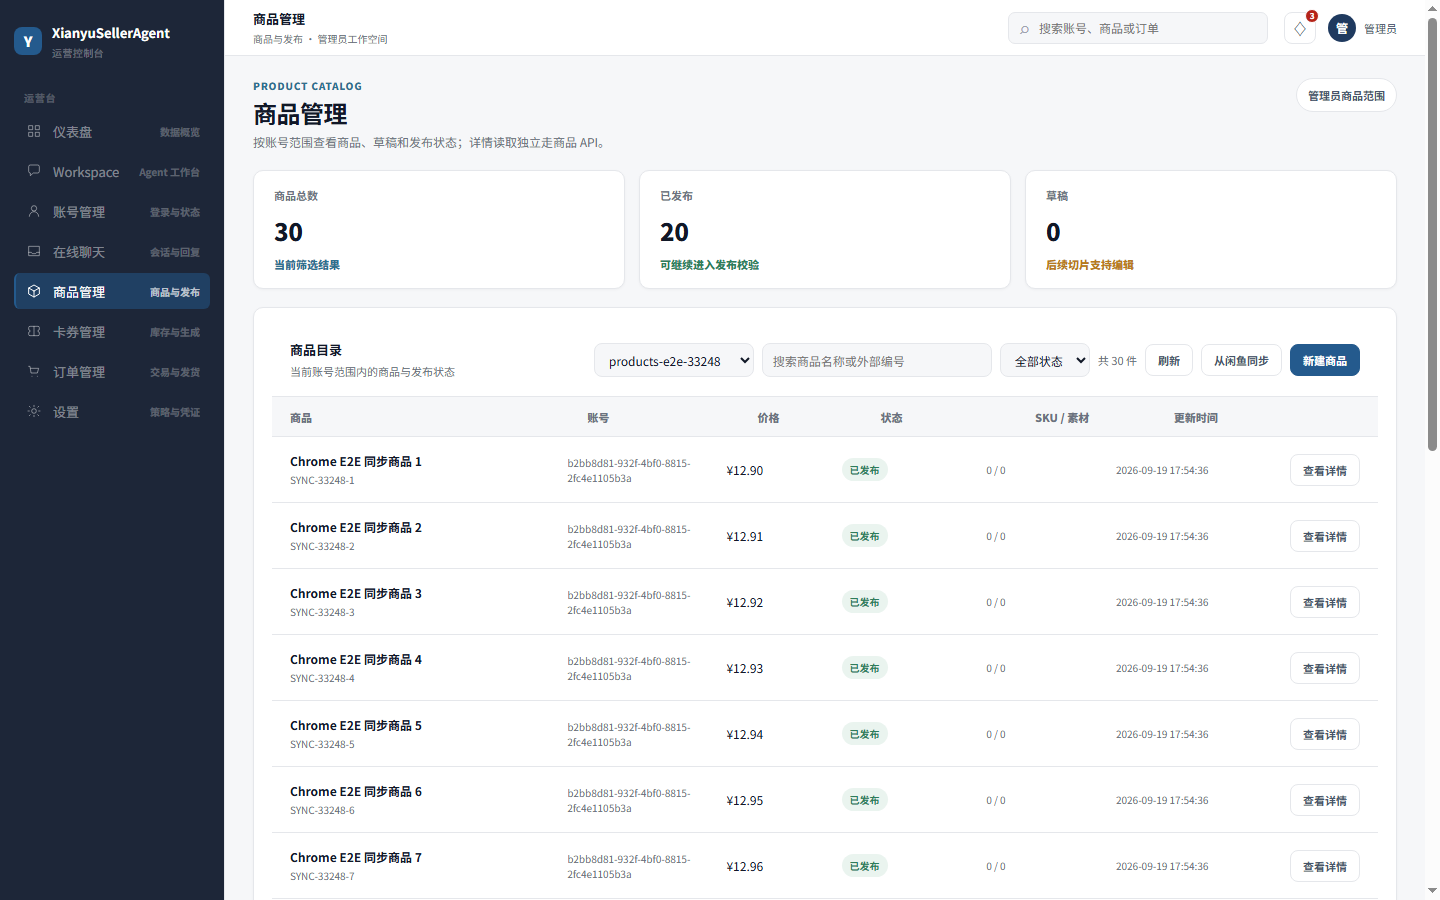
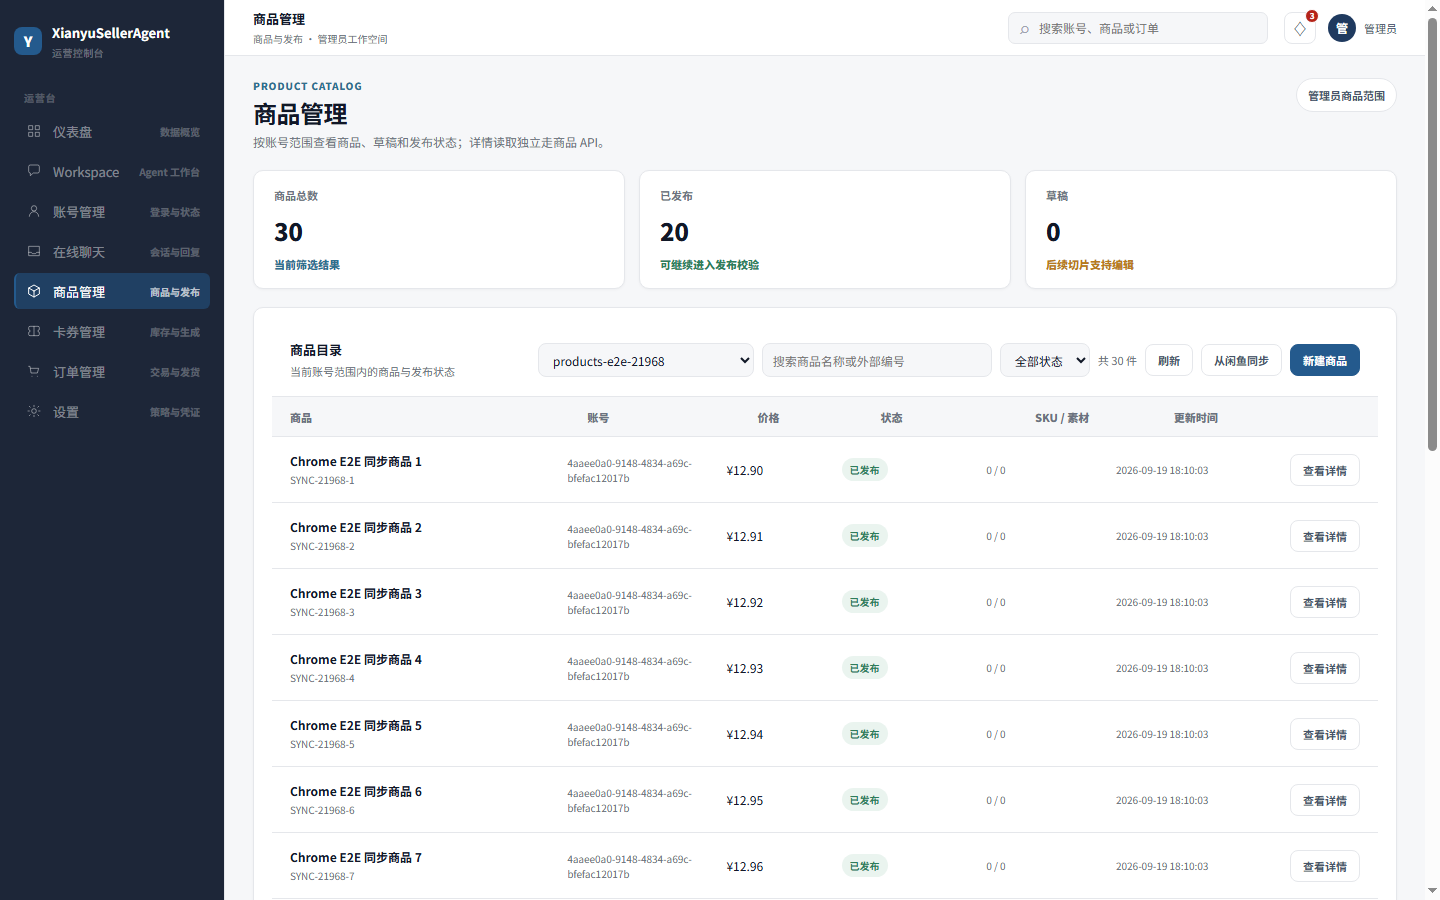
fix(商品同步): 修复多账号选择与Postgres幂等

diff --git a/apps/web/src/features/products/components/ProductsPage.tsx b/apps/web/src/features/products/components/ProductsPage.tsx
@@ -82,7 +82,7 @@ export function ProductsPage({ api: providedApi, accountsApi: providedAccountsAp
         <ProductToolbar filters={controller.filters} phase={controller.state.phase} total={total} syncing={controller.mutation.phase === 'saving'} accounts={accounts} accountsLoading={accountsLoading} accountsError={accountsError} selectedAccountId={selectedAccountId} onAccountChange={handleAccountChange} onKeywordChange={controller.setKeyword} onStatusChange={(status) => controller.setFilters((previous) => ({ ...previous, status, page: 1 }))} onRefresh={controller.reload} onSync={() => { if (selectedAccountId) void controller.syncFromXianyu(selectedAccountId); }} onCreate={() => { controller.clearMutation(); setDrawer({ mode: 'create' }); }} />
         {controller.mutation.error && <div className="products-inline-error" role="alert">{controller.mutation.error.message}</div>}
         {controller.state.phase === 'success' && <ProductTable products={products} onOpen={controller.openProduct} />}
-        <ProductListStateView phase={controller.state.phase} error={controller.state.error} onRetry={controller.reload} />
+        <ProductListStateView phase={controller.state.phase} error={controller.state.error} onRetry={controller.reload} accountSelectionRequired={!accountsLoading && !accountsError && accounts.length > 1 && !selectedAccountId} />
       </article>
       <ProductDetailPanel state={controller.detail} onClose={controller.closeProduct} onRetry={() => controller.detail.productId && controller.openProduct(controller.detail.productId)} onEdit={(product) => { controller.closeProduct(); controller.clearMutation(); setDrawer({ mode: 'edit', product }); }} />
       {drawer && <ProductDrawer mode={drawer.mode} accountId={selectedAccountId} product={drawer.product} error={controller.mutation.error} saving={controller.mutation.phase === 'saving'} onClose={() => setDrawer(null)} onCreate={async (values) => Boolean(await controller.createDraft(values))} onUpdate={async (productId, patch, configVersion) => Boolean(await controller.updateDraft(productId, patch, configVersion))} />}

diff --git a/apps/api/src/store-postgres.ts b/apps/api/src/store-postgres.ts
@@ -101,7 +101,7 @@ export class PostgresStore implements Store {
     const id = existing ? String(existing.id) : createId();
     await this.pool.query(`insert into products.products (id,account_id,external_product_ref,title,description,category_code,attributes_json,price_minor,status,source,last_synced_at,source_payload_digest)
       values ($1,$2,$3,$4,$5,$6,$7::jsonb,$8,'published','xianyu',$9,$10)
-      on conflict (account_id,external_product_ref) do update set title=excluded.title,description=excluded.description,category_code=excluded.category_code,attributes_json=excluded.attributes_json,price_minor=excluded.price_minor,status='published',source='xianyu',last_synced_at=excluded.last_synced_at,source_payload_digest=excluded.source_payload_digest,config_version=products.products.config_version+1,updated_at=now()
+      on conflict (account_id,external_product_ref) where external_product_ref is not null do update set title=excluded.title,description=excluded.description,category_code=excluded.category_code,attributes_json=excluded.attributes_json,price_minor=excluded.price_minor,status='published',source='xianyu',last_synced_at=excluded.last_synced_at,source_payload_digest=excluded.source_payload_digest,config_version=products.products.config_version+1,updated_at=now()
       returning id`, [id, input.accountId, input.item.externalProductRef, input.item.title, input.item.description ?? null, input.item.categoryCode ?? null, JSON.stringify(attributes), input.item.priceMinor ?? null, input.syncedAt, input.item.sourcePayloadDigest]);
     const product = await this.getProduct(input.adminId, id);
     if (!product) throw new Error('PRODUCT_SYNC_READBACK_FAILED');

diff --git a/apps/web/src/features/products/components/ProductStateView.tsx b/apps/web/src/features/products/components/ProductStateView.tsx
@@ -1,7 +1,8 @@
 import type { ProductDetailState, ProductsLoadError, ProductsLoadPhase } from '../types';
 
-export function ProductListStateView({ phase, error, onRetry }: { phase: ProductsLoadPhase; error: ProductsLoadError | null; onRetry: () => void }) {
+export function ProductListStateView({ phase, error, onRetry, accountSelectionRequired = false }: { phase: ProductsLoadPhase; error: ProductsLoadError | null; onRetry: () => void; accountSelectionRequired?: boolean }) {
   if (phase === 'idle' || phase === 'loading') return <div className="products-state" aria-live="polite"><div className="products-skeleton"/><div className="products-skeleton"/><div className="products-skeleton"/></div>;
+  if (accountSelectionRequired) return <div className="products-state"><strong>请选择闲鱼账号</strong><span>当前有多个可用账号，请先选择账号后再加载商品或执行同步。</span></div>;
   if (phase === 'empty') return <div className="products-state"><strong>暂无商品</strong><span>当前账号范围内没有匹配商品，可调整筛选条件后重试。</span></div>;
   if (phase === 'forbidden') return <div className="products-state products-error" role="alert"><strong>无权查看商品</strong><span>{error?.message}</span></div>;
   if (phase === 'error' && error) return <div className="products-state products-error" role="alert"><strong>商品列表加载失败</strong><span>{error.message}</span>{error.retryable && <button className="btn ghost" type="button" onClick={onRetry}>重新加载</button>}</div>;

diff --git a/apps/web/src/features/products/account-scope.test.ts b/apps/web/src/features/products/account-scope.test.ts
@@ -11,12 +11,17 @@ describe('product account scope selection', () => {
     expect(chooseProductAccountId([account('pending', 'pending'), account('connected', 'connected', 'online')], 'pending')).toBe('pending');
   });
 
-  it('prefers a connected account when no request exists', () => {
-    expect(chooseProductAccountId([account('pending', 'pending'), account('connected', 'connected', 'online')])).toBe('connected');
+  it('auto-selects the only available account when no request exists', () => {
+    expect(chooseProductAccountId([account('connected', 'connected', 'online')])).toBe('connected');
+  });
+
+  it('requires explicit selection when multiple accounts are available', () => {
+    expect(chooseProductAccountId([account('first', 'connected', 'online'), account('second', 'connected', 'online')])).toBeUndefined();
   });
 
   it('does not select disabled accounts', () => {
     expect(chooseProductAccountId([account('disabled', 'disabled'), account('pending', 'pending')])).toBe('pending');
+    expect(chooseProductAccountId([account('disabled', 'disabled'), account('pending', 'pending'), account('connected', 'connected', 'online')])).toBeUndefined();
     expect(chooseProductAccountId([account('disabled', 'disabled')])).toBeUndefined();
   });
 });

diff --git a/apps/web/src/features/products/account-scope.ts b/apps/web/src/features/products/account-scope.ts
@@ -3,6 +3,7 @@ import type { AccountVM } from '../accounts/types';
 export function chooseProductAccountId(accounts: AccountVM[], requestedAccountId?: string): string | undefined {
   const available = accounts.filter((account) => account.status !== 'disabled');
   if (requestedAccountId && available.some((account) => account.id === requestedAccountId)) return requestedAccountId;
+  if (available.length !== 1) return undefined;
   return available.find((account) => account.status === 'connected' || account.connection.status === 'online')?.id
     ?? available[0]?.id;
 }

diff --git a/docs/05-review-log.md b/docs/05-review-log.md
@@ -211,6 +211,16 @@
 
 本轮门禁结论：S4-VS2 商品列表/详情只读首片 PASS，可继续同一商品切片的草稿、素材、SKU 和发布子切片；不能将当前结果表述为完整商品管理或真实闲鱼商品同步/发布完成。
 
+### 10.11 S4-VS2 商品同步 Compose 回归复核（2026-09-19）
+
+| 评审编号 | 类型 | 评审重点 | 评审人 | 结论 | 证据 |
+| --- | --- | --- | --- | --- | --- |
+| S5-R28 | 后端 / PostgreSQL | 外部商品 Upsert 是否正确命中 `products_account_external_ref_uq` 部分唯一索引，避免真实同步返回 500 | root | PASS | `apps/api/src/store-postgres.ts` 在 `ON CONFLICT` 中补充 `WHERE external_product_ref IS NOT NULL`；`npm run test:products:postgres` 通过；真实 Compose 同步接口返回 200 |
+| S5-R29 | 前端 / 账号上下文 | 多个可用闲鱼账号时是否避免静默选中错误账号，要求显式选择后再加载/同步 | root + inspect_sync_backend_bug | PASS（受控 E2E） | `apps/web/src/features/products/account-scope.ts`、`ProductStateView.tsx`；`npm run test:web`、`npm run test:e2e:chrome:products` 通过 |
+| S5-R30 | 外部平台 / 商品数量口径 | 当前 Compose 凭证是否实际返回用户所说的 29 件商品 | root + inspect_sync_backend_bug | PENDING 人工复核 | 当前两个 connected 账号 MTOP 实测分别返回 0 和 19 件；`nextPage=false`，在售分组为 19；未发现可安全推导 29 件的分组/分页参数，不能用 fixture 结果替代外部验收 |
+
+本轮结论：已关闭 PostgreSQL 同步 500 与多账号误选账号两个代码问题；真实闲鱼“29 件”数量口径仍需确认目标账号及是否包含非在售分组，当前同步继续保持只读在售范围，不伪造或扩大外部数量。
+
 ### 10.4 本地 dev / Compose 数据源统一复核（2026-09-19）
 
 | 评审编号 | 类型 | 评审重点 | 评审人 | 结论 | 证据 |

diff --git a/AGENT.md b/AGENT.md
@@ -175,3 +175,9 @@ git diff --check
 - 全 Compose 模式使用 `full` profile；本地 dev 启动前停止 Compose API/Worker，禁止两个 API 同时抢占 `8080`。
 - 首次管理员页面必须由真实 `bootstrapRequired` 数据驱动；已有管理员时只显示登录页，不在前端硬编码邮箱或密码。
 - 健康检查必须暴露实际 storage kind，便于确认浏览器请求没有误连到另一套内存 API。
+
+## 2026-09-19 商品同步真实环境经验
+
+- PostgreSQL 部分唯一索引用于外部商品幂等 Upsert 时，`ON CONFLICT` 必须带与索引一致的谓词；仅写 `(account_id, external_product_ref)` 会在真实数据库返回“没有匹配唯一约束”的 500，内存测试无法发现该问题。
+- 多闲鱼账号的商品页不得静默选择第一个 connected 账号；没有明确 `accountId` 时必须要求管理员显式选择，避免把空账号或错误账号的结果误报为“当前账号没有商品”。
+- Chrome/CDP fixture 中的“29 件”只能证明前端链路可承载 29 件数据，不能替代真实 MTOP 外部验收；真实商品数量必须按目标账号、分组、分页和当前 Cookie 的实际返回记录，数量口径不一致时提出人工复核，不得硬编码补齐。

diff --git a/STATUS.md b/STATUS.md
@@ -84,3 +84,4 @@
 - 2026-09-19 S4-VS2 商品列表/详情只读首片完成：003_catalog、统一商品 API、前端 Products feature、PostgreSQL smoke 和 Chrome/CDP E2E 均通过；商品写入、同步、素材、SKU、发布仍未宣称完成。
 - 2026-09-19 S4-VS2 商品同步首片完成：`POST /api/v1/products/sync`、MTOP 脱敏 mapper、Memory/PostgreSQL 幂等 Upsert、本地草稿跳过、商品页同步按钮和 Chrome/CDP fixture E2E 均通过；提交 `edecc3e`。真实发布仍未接入。
 - 2026-09-19 S4-VS2 商品同步入口修复完成：普通 `/products` 自动选择可用账号并携带 `accountId` 查询/同步，Chrome/CDP fixture 验证 29 件同步商品可见；本轮已单独提交。真实闲鱼外部验收仍待人工执行。
+- 2026-09-19 S4-VS2 商品同步 Compose 回归修复：PostgreSQL 外部商品 Upsert 补齐部分唯一索引冲突谓词，真实 19 件账号同步由 500 恢复为 200 并落库；多账号无 query 时改为要求显式选择，避免静默同步到返回 0 件的错误账号。当前 Compose 两个账号实测为 0/19 件，用户所说 29 件仍待确认目标账号与统计口径。
